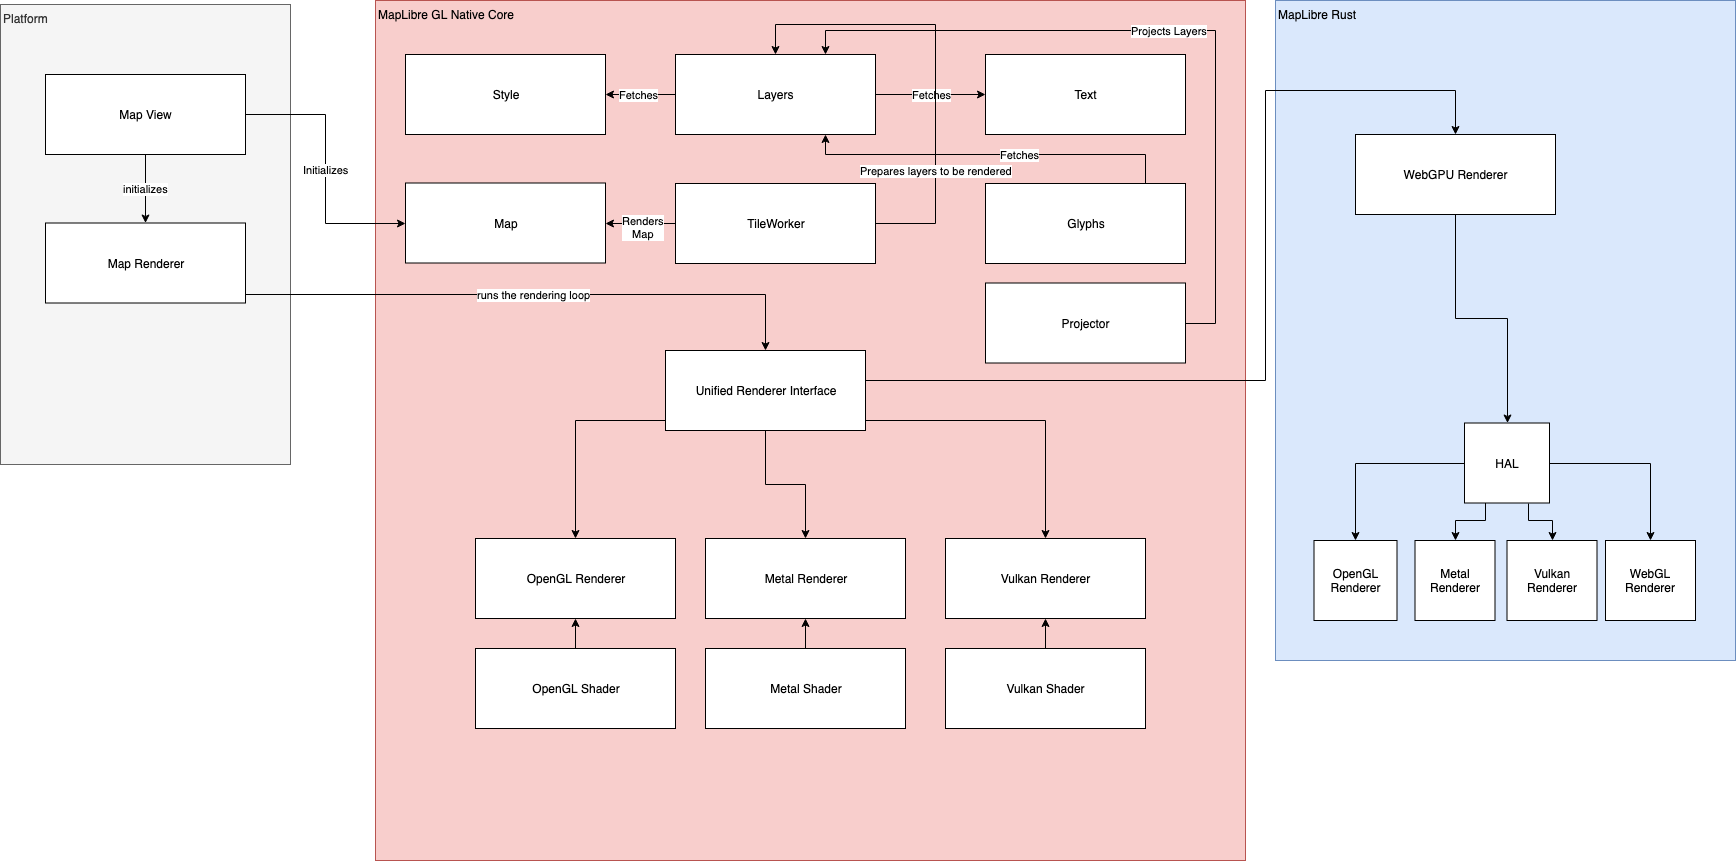
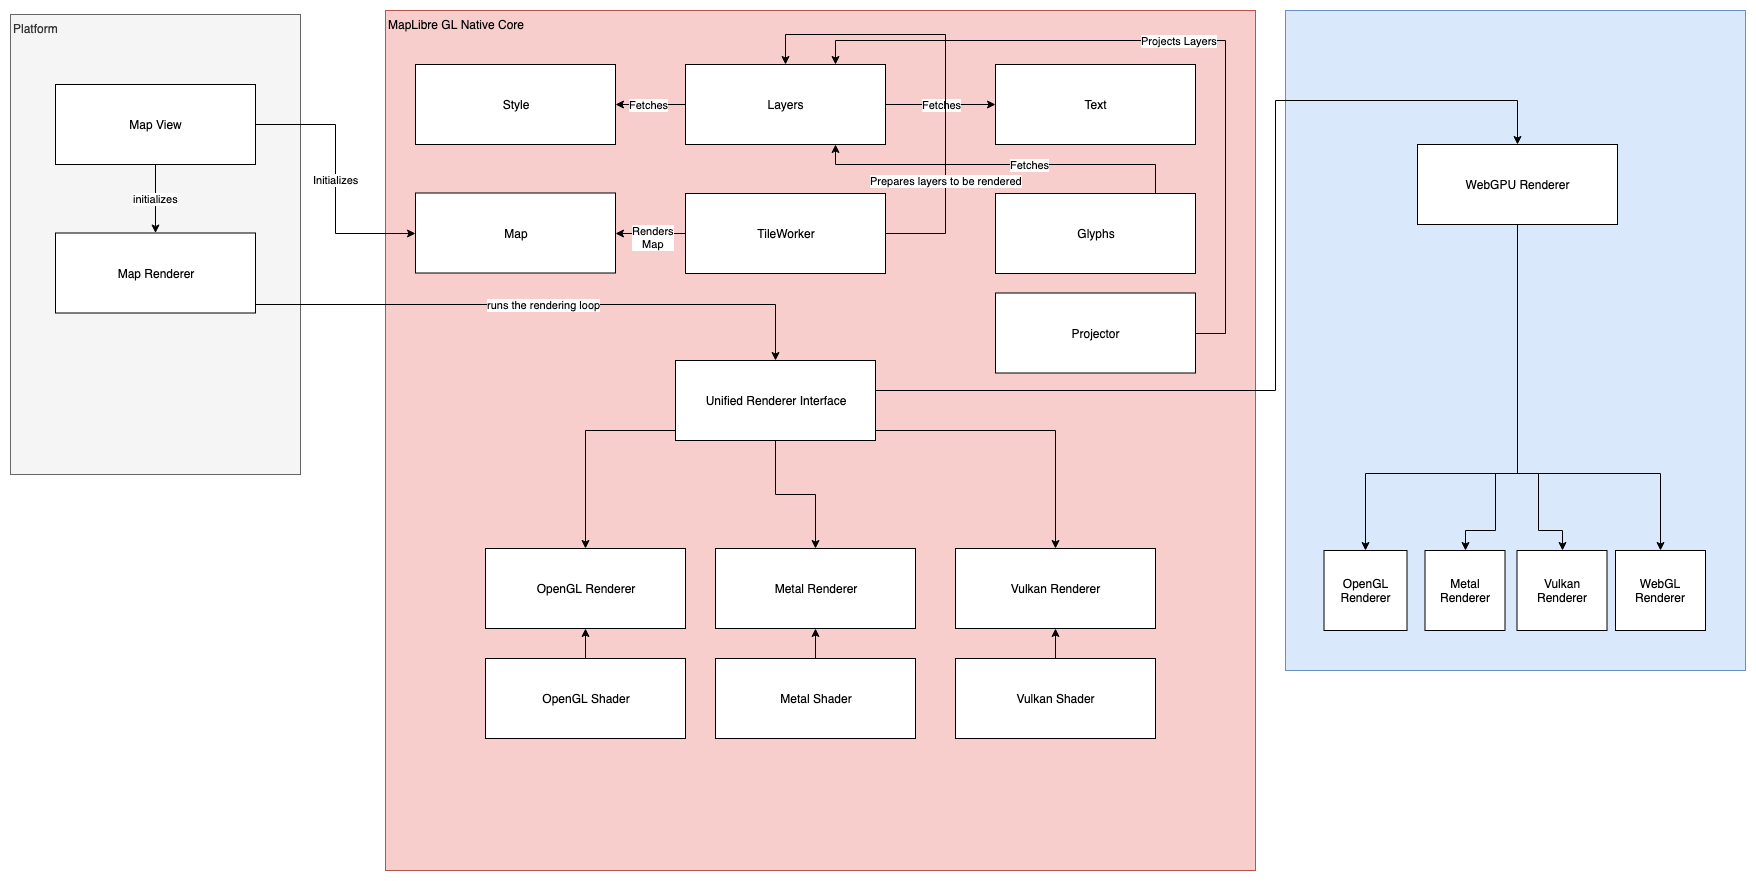
Generalize architectural recommendation regarding webpgu

diff --git a/docs/mdbook/src/design/archictural-problems-and-recommendations.md b/docs/mdbook/src/design/archictural-problems-and-recommendations.md
@@ -1,15 +1,15 @@
 # Architectural Problems & Recommendations
 
-Up until now, this document focused solely on the state of MapLibre GL
+Up until now, this document focused solely on the state of MapLibre
 Native at the time of writing. This section speaks of possible future
 improvements for MapLibre Native from an architectural point of view.
-Before that, let's look into the architectural challenges MapLibre GL
+Before that, let's look into the architectural challenges MapLibre
 Native is facing[^18]:
 
 ## Renderer coupled with OpenGL
 
 The renderer component is tightly coupled to OpenGL ES. It uses OpenGL
-ES as its only preferred rendering backend. Furthermore, MapLibre GL
+ES as its only preferred rendering backend. Furthermore, MapLibre
 Native does not have a clear separation between the following:
 
 1.  The logical responsibility of rendering a map tile. This involves
@@ -58,15 +58,16 @@ mitigated:
     uses WebGL through completely different implementations for Map,
     Style, Layers, Glyph, and TileWorker.
 
-3.  MapLibre Rust is an initiative to port MapLibre GL capability
-    through usage of *WebGPU*. At the time of writing, *WebGPU* is a
-    young platform that exposes modern computer graphics capabilities,
-    especially Direct3D 12, Metal, and Vulkan through a shared API. It
-    has promise, but the API at the time of writing only supports
-    ChromeOS, macOS, and Windows 10. Technically, it can be used with
-    Android and iOS but these platforms do not provide out of the box
-    support for it. This also has created a divergent experience for
-    customers when it comes to using MapLibre Native.
+3.  MapLibre Rust is an experimental initiative to create a new MapLibre
+    implementation in Rust, entirely based on *WebGPU*. At the time of
+    writing, *WebGPU* is a young platform that exposes modern computer
+    graphics capabilities, especially Direct3D 12, Metal, and Vulkan
+    through a shared API. It has promise, but the API at the time of
+    writing only supports ChromeOS, macOS, and Windows 10. Technically,
+    it can be used with Android and iOS but these platforms do not
+    provide out of the box support for it. This also has created a
+    divergent experience for customers when it comes to using MapLibre
+    Native.
 
 ## Lack of documentation
 
@@ -78,7 +79,7 @@ for future improvement. This document intends to address the first.
 ## Recommendations
 
 This document proposes the following component architecture for MapLibre
-GL Native to address the architectural shortcomings.
+Native to address the architectural shortcomings.
 
 ![](media/proposed-architecture-of-maplibre-gl.png)    
 *Figure 4: Proposed Architecture of MapLibre Native*
@@ -116,15 +117,14 @@ of a flat 3D plane. At the time of writing MapLibre Native supports
 2.5D extrusion for buildings and terrain tiles. Supporting confidential
 datums like *GCJ-02* can also be achieved through this.
 
-#### Future Convergence with MapLibre Rust
+#### Future Convergence with WebGPU
 
-This document acknowledges the value proposition MapLibre Rust
-initiative brings. At the time of writing, MapLibre Native GL core is
-written in C++. Albeit written in C++, MapLibre Native GL code relies on
-immutable message passing between renderer and tile workers. Private
-functions also follow the *C++ move semantics*. This means, each private
-function takes ownership of the arguments passed to the function by
-copying it to a new memory.
+This document acknowledges the value proposition Rust brings. At the
+time of writing, MapLibre Native Core is written in C++. Albeit written
+in C++, MapLibre Native code relies on immutable message passing between
+renderer and tile workers. Private functions also follow the *C++ move
+semantics*. This means, each private function takes ownership of the
+arguments passed to the function by copying it to a new memory.
 
 Rust as a programming language enforces such intentions through compile
 time safety checks. Provided Rust Foreign Function[^19] Interface allows
@@ -134,11 +134,11 @@ done in sequence:
 1.  At first, this document proposes to implement ***Modularized
     Rendering*** in C++ for MapLibre Native. This document also
     proposes that Unified Rendering Interface will keep the door open
-    for a *WebGPU* backed renderer in MapLibre Rust. This will address
-    the divergence of web and native platforms in the future. The Rust
-    renderer can be compiled to WebAssembly and enable WebGPU powered
-    rendering for browsers. This paves the path forward for a single
-    unified renderer implementation for web and mobile devices.
+    for a *WebGPU* backed renderer in MapLibre Native. This could address
+    the divergence of web and native platforms in the future. The WebGPU
+    renderer might be possible to compiled to WebAssembly and enable
+    WebGPU powered rendering for browsers. This paves the path forward for
+    a single unified renderer implementation for web and mobile devices.
 
 2.  After the delivery of ***Modularized Rendering***, this document
     proposes to eventually migrate *Style, Layers, Text, Glyphs,

diff --git a/docs/mdbook/src/design/coordinate-system.md b/docs/mdbook/src/design/coordinate-system.md
@@ -14,7 +14,7 @@ geometries defined by WGS84 longitude, latitude pair coordinates to a
 map tile.
 
 Instead of translating a full geometry, in the following subsections, we
-will project a WGS 84 point to a map tile rendered in MapLibre GL
+will project a WGS 84 point to a map tile rendered in MapLibre
 Native.
 
 #### World vs Earth
@@ -177,7 +177,7 @@ components to integers, we get `(585/783/11)`. This marks an individual
 tile's X, Y, and Z.
 
 To reach our goal of translating a location to a coordinate inside a
-tile, we need to know what is the *extent* of the tile. MapLibre GL
+tile, we need to know what is the *extent* of the tile. MapLibre
 Native follows Mapbox Vector Tile (MVT) spec. Following said spec,
 MapLibre Native internally normalizes each tile to an *extent* of
 8192. Tile extent describes the width and height of the tile in integer
